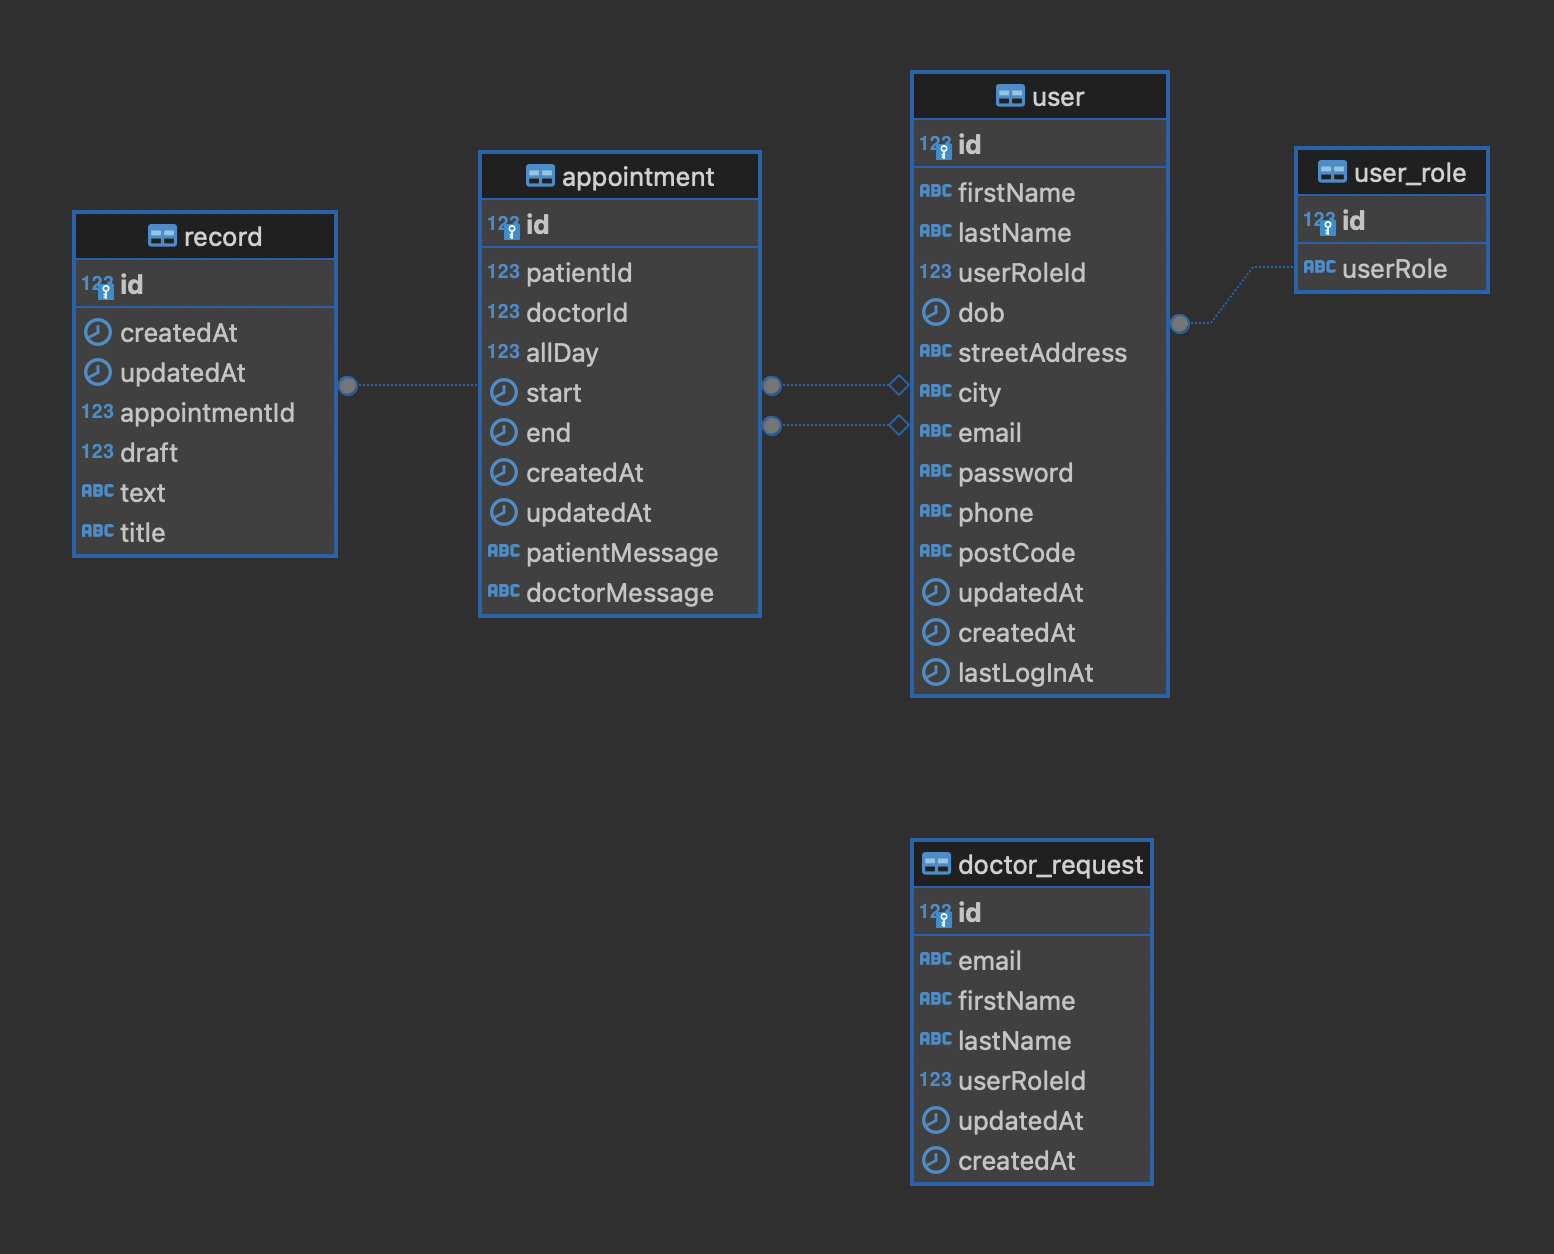
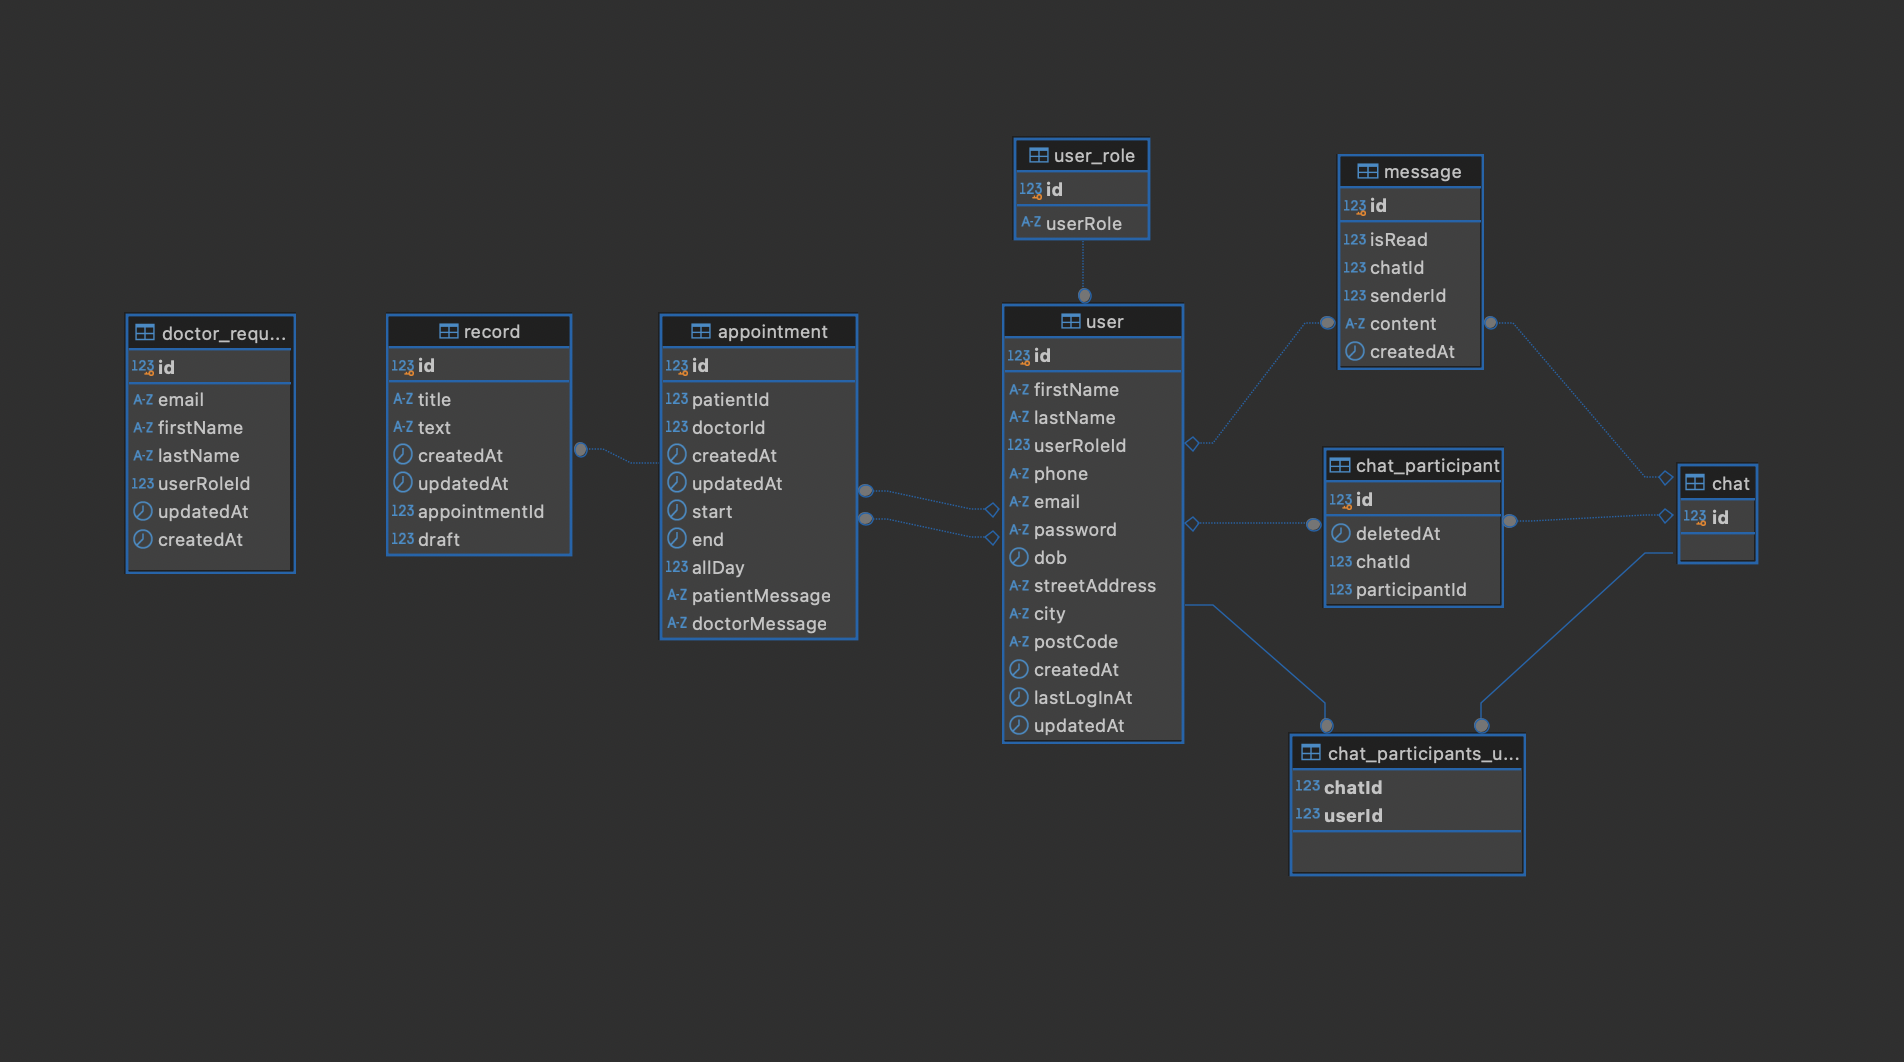
update readme

diff --git a/README.md b/README.md
@@ -1,7 +1,7 @@
 ### Introduction
 
-This repository contains a back end for a personal portfolio project "Health Center".
-The project has not been deployed yet.
+This repository contains server side logic for a professional portfolio project "Health Center". The project is deployed via [Render](www.render.com). The application database service provided via [FreeSqlDatabase](www.freesqldatabase.com).
+
 ___
 
 
@@ -28,17 +28,16 @@ ___
 
 ___
 
-### Folder Structure
+### Source Folder Structure
 
 ```
 Root Folder
 └── src
     ├── schema.ts
-    ├── app.ts
     ├── index.ts
     ├──  / configurations
-    │   ├── db.config.ts
-    │   └── app.config.ts
+    │   ├── dev-db.config.ts
+    │   └── prod-db.config.ts
     ├──  / services
     │   └── email.service.ts
     ├──  / migration
@@ -62,13 +61,19 @@ Root Folder
         │   ├── record.model.ts
         │   ├── record.resolver.ts
         │   └── record.mutation.resolver.ts
-        └── / user
-            ├── user.ts
-            ├── user.input.ts
-            ├── user.model.ts
-            ├── user-role.model.ts
-            ├── user.resolver.ts
-            └── user.mutation.resolver.ts
+        ├── / user
+        │   ├── user.ts
+        │   ├── user.input.ts
+        │   ├── user.model.ts
+        │   ├── user-role.model.ts
+        │   ├── user.resolver.ts
+        │   └── user.mutation.resolver.ts
+        ├── / chat
+        │   └── ...
+        ├── / message
+        │   └── ...
+        └──  / chat_participant
+            └── ...
 ```
 
 
@@ -80,11 +85,12 @@ ___
 - Google authentication
 - FTN (Finnish Trust Network) bank authentication (_Signicat Sandbox_)
 - Nodemailer email service
+- Socket.IO real-time notifications
   
 
-##### API
+##### Data & API
 
-This backend serves GraphQL API, with SQL database connection.
+This backend serves GraphQL API, with SQL database connection (MSSQL locally, MySQL in production). Currently the dataset consists of 9 tables (appointment, chat, chat_participant, chat_participants_user, doctor_request, message, record, user, user_role). 
 
 
 ##### ERD 
